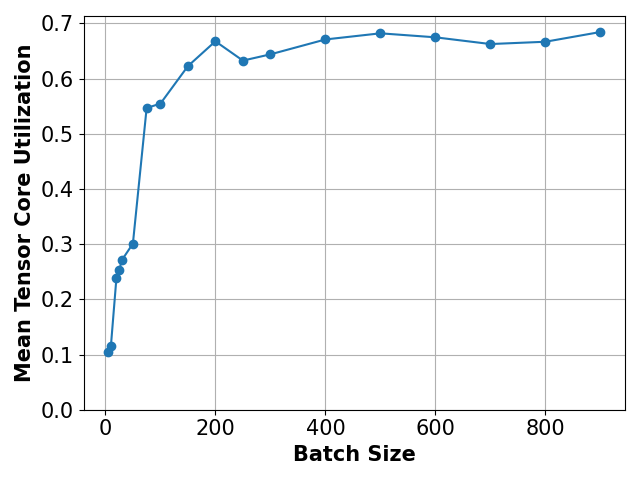
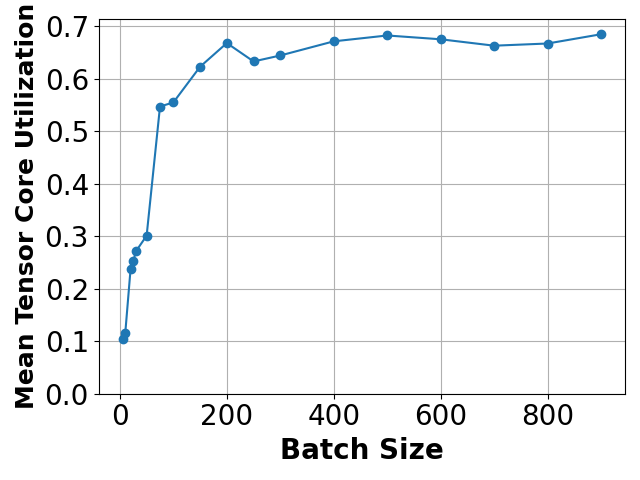
batch-size

diff --git a/code/vllm/batch_size_dcgmi_logs/read.py b/code/vllm/batch_size_dcgmi_logs/read.py
@@ -18,17 +18,17 @@ with open(log_file, "r") as f:
     for line in f:
         start_match = start_pattern.search(line)
         if start_match:
-            start_times.append(float(start_match.group(1)))
+            start_times.append(float(start_match.group(1))*50)
 
 # Plot
 plt.figure()
 # print(fractions)
 plt.plot(fractions, start_times, marker='o')
-plt.xlabel("Batch Size", fontweight="bold", fontsize=15)
-plt.ylabel("Throughput (req/sec)", fontweight="bold", fontsize=15)
-plt.xticks(fontsize=15)
-plt.yticks(fontsize=15)
-plt.ylim(0, max(start_times) + 10)
+plt.xlabel("Batch Size", fontweight="bold", fontsize=20)
+plt.ylabel("Throughput (req/sec)", fontweight="bold", fontsize=20)
+plt.xticks(fontsize=20)
+plt.yticks(fontsize=20)
+plt.ylim(0, max(start_times) + 500)
 plt.tight_layout()
 plt.grid(True)
 # plt.title("Average Scheduler Duration vs Fraction")

diff --git a/code/vllm/batch_size_dcgmi_logs/plot.py b/code/vllm/batch_size_dcgmi_logs/plot.py
@@ -2,7 +2,7 @@ import re
 import matplotlib.pyplot as plt
 
 # Path to your single log file
-LOG_FILE = "smocc"
+LOG_FILE = "tenso"
 
 fractions = []
 means = []
@@ -31,11 +31,11 @@ fractions, means = zip(*sorted_data)
 # -------------------------
 plt.figure()
 plt.plot(fractions, means, marker='o')
-plt.xlabel("Batch Size", fontweight="bold", fontsize=15)
-plt.ylabel("Mean SM Occupancy", fontweight="bold", fontsize=15)
-plt.xticks(fontsize=15)
-plt.yticks(fontsize=15)
+plt.xlabel("Batch Size", fontweight="bold", fontsize=20)
+plt.ylabel("Mean Tensor Core Utilization", fontweight="bold", fontsize=18)
+plt.xticks(fontsize=20)
+plt.yticks(fontsize=20)
 plt.ylim(0, None)
 plt.grid(True)
 plt.tight_layout()
-plt.savefig("../../../results/mean_smocc_vs_batch_size_llama8b.png")
+plt.savefig("../../../results/mean_tenso_vs_batch_size_llama8b.png")
